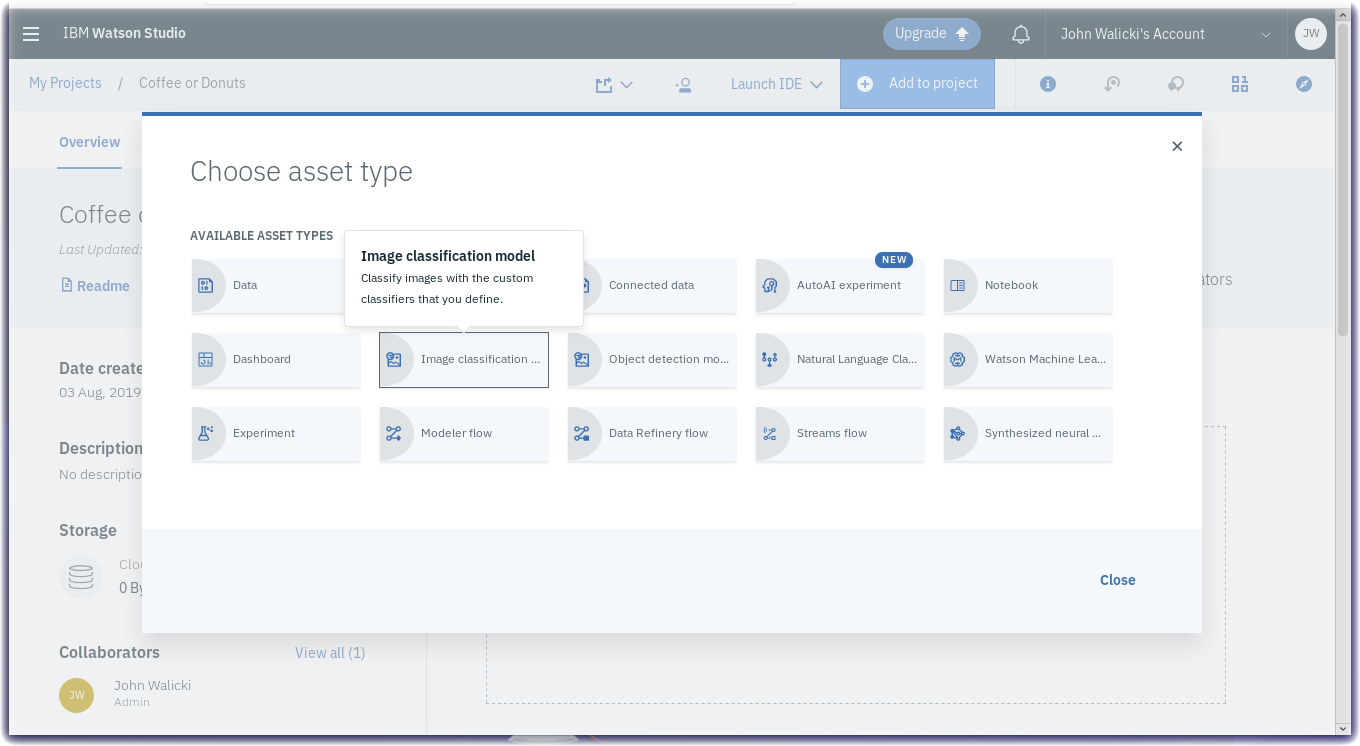
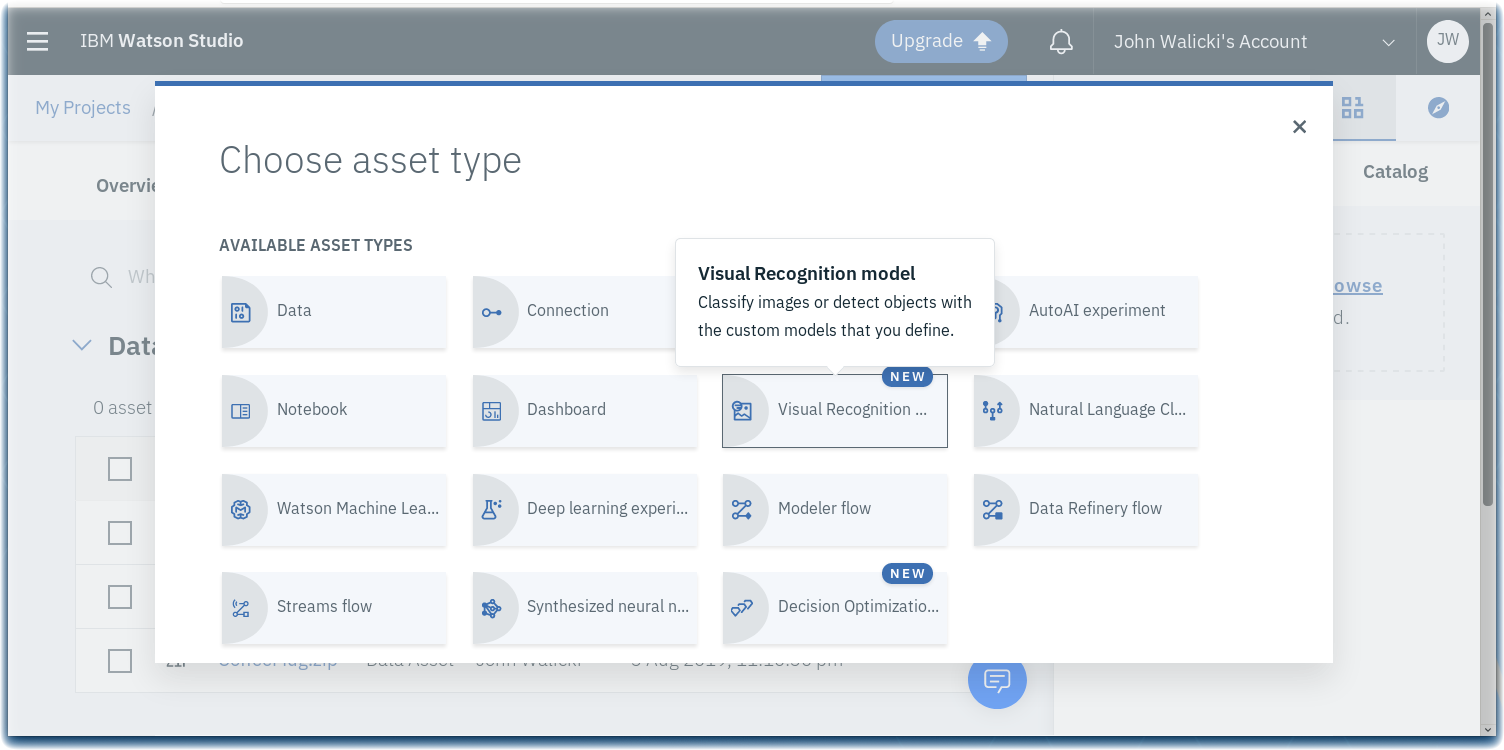
Classify Images Custom Model screenshots

diff --git a/Coffee-Workshop.md b/Coffee-Workshop.md
@@ -147,6 +147,10 @@ Projects are your workspace to organize your resources, such as assets like data
 
 ![Watson Studio Add Image Classification screenshot](screenshots/WatsonStudio-Project-AddImageClassification.png)
 
+- Select **Classify Images** on the **Custom Models** page.
+
+![Watson Studio Classify Image Custom Model screenshot](screenshots/WatsonStudio-Project-ClassifyImagesCustomModel.png)
+
 #### Provision a new Watson Visual Recognition Service instance
 - Your project needs to be associated with a Watson Visual Recognition Service instance
 - Click on the **click here** link in the popup to Associate a Watson Visual Recognition service.

diff --git a/STUDIO.md b/STUDIO.md
@@ -86,6 +86,11 @@ Projects are your workspace to organize your resources, such as assets like data
 
 ![Watson Studio Add Image Classification screenshot](screenshots/WatsonStudio-Project-AddImageClassification.png)
 
+- Select **Classify Images** on the **Custom Models** page.
+
+![Watson Studio Classify Image Custom Model screenshot](screenshots/WatsonStudio-Project-ClassifyImagesCustomModel.png)
+
+
 #### Provision a new Watson Visual Recognition Service instance
 - Your project needs to be associated with a Watson Visual Recognition Service instance
 - Click on the **click here** link in the popup to Associate a Watson Visual Recognition service.
